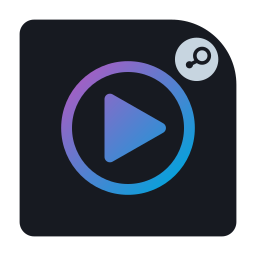
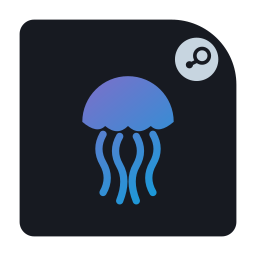
Rebrand: PolypLink, nuovi loghi, pacchetto polyplink e migrazione impostazioni

Changed region(s): [[0.2188, 0.2188, 0.7812, 0.8125]]

diff --git a/qml/main.qml b/qml/main.qml
@@ -318,7 +318,7 @@ Window {
                 if (e.action === "profile") return app.userName
                 return app.serverLabel
             }
-            return "JellyLink " + appVersion
+            return "PolypLink " + appVersion
         }
         return ""
     }
@@ -586,7 +586,7 @@ Window {
         height: 56
         color: "#111a23"
 
-        // logo Jellyfin + nome dell'app
+        // logo PolypLink + nome dell'app
         Row {
             x: 24
             anchors.verticalCenter: parent.verticalCenter
@@ -596,7 +596,7 @@ Window {
                 width: 44
                 height: 44
                 anchors.verticalCenter: parent.verticalCenter
-                source: "qrc:/qml/assets/jellylink-logo.png"
+                source: "qrc:/qml/assets/polyplink-logo.png"
                 fillMode: Image.PreserveAspectFit
                 smooth: true
             }
@@ -608,7 +608,7 @@ Window {
                     color: "#ffffff"
                     font.pixelSize: 26
                     font.bold: true
-                    text: "Jelly"
+                    text: "Polyp"
                 }
                 Text {
                     color: "#00a4dc"
@@ -1538,7 +1538,7 @@ Window {
                 anchors.bottomMargin: 22
                 color: "#3f4c58"
                 font.pixelSize: 13
-                text: "JellyLink " + appVersion
+                text: "PolypLink " + appVersion
             }
         }
     }
@@ -3000,7 +3000,7 @@ Window {
                     } else if (action === "info") {
                         menuHint = page === "account"
                             ? (app.userName + "   ·   " + app.serverLabel)
-                            : ("JellyLink " + appVersion)
+                            : ("PolypLink " + appVersion)
                         menuHintTimer.restart()
                     } else {
                         menuHint = qsTr("Voce in preparazione: %1").arg(entry.title)
